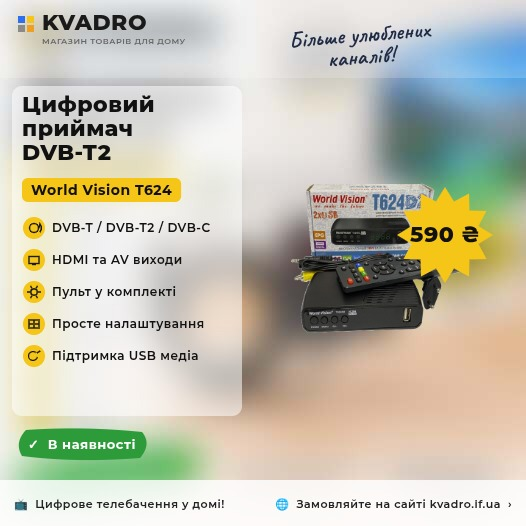
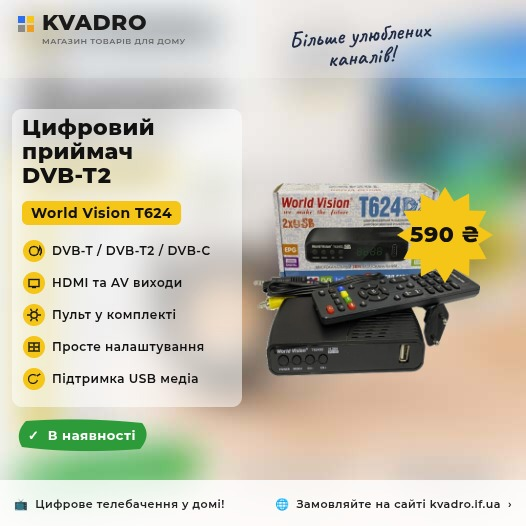
master - added generate promo command

Changed region(s): [[0.0304, 0.1521, 0.4259, 0.8821], [0.4867, 0.3346, 0.9125, 0.73], [0.3042, 0.7605, 0.4563, 0.7909]]

diff --git a/public/lib/admin-promo-image-editor.js b/public/lib/admin-promo-image-editor.js
@@ -275,8 +275,8 @@
     }
 
     function drawLogoMark(x, y) {
-        const s = 7;
-        const gap = 2;
+        const s = 9;
+        const gap = 3;
         const colors = ['#2f6fed', '#f5c518', '#8a8a8a', '#f0a020'];
         colors.forEach((color, i) => {
             const col = i % 2;
@@ -390,15 +390,15 @@
         roundRect(12, panelTop, 230, panelHeight, 10);
         ctx.fill();
 
-        // Brand (header — fixed)
-        drawLogoMark(18, 16);
+        // Brand (header — fixed, +30% type size)
+        drawLogoMark(16, 14);
         ctx.fillStyle = '#1a1a1a';
-        ctx.font = '800 22px Montserrat, Arial, sans-serif';
-        ctx.fillText(state.brandName || '', 42, 30);
+        ctx.font = '800 29px Montserrat, Arial, sans-serif';
+        ctx.fillText(state.brandName || '', 48, 34);
         ctx.fillStyle = '#666';
-        ctx.font = '600 8px Montserrat, Arial, sans-serif';
+        ctx.font = '600 10px Montserrat, Arial, sans-serif';
         ctx.letterSpacing = '0.5px';
-        ctx.fillText((state.brandTagline || '').toUpperCase(), 42, 44);
+        ctx.fillText((state.brandTagline || '').toUpperCase(), 48, 52);
 
         // Slogan (header — fixed)
         ctx.save();
@@ -477,9 +477,10 @@
         ctx.fillStyle = 'rgba(255,255,255,0.82)';
         ctx.fillRect(0, 480, size, 46);
         ctx.fillStyle = '#222';
-        ctx.font = '600 11px Montserrat, Arial, sans-serif';
         ctx.textAlign = 'left';
-        ctx.fillText('📺  ' + (state.footerLeft || ''), 14, 508);
+        ctx.font = '600 13px Montserrat, Arial, sans-serif';
+        ctx.fillText(state.footerLeft || '', 14, 508);
+        ctx.font = '600 11px Montserrat, Arial, sans-serif';
         ctx.textAlign = 'right';
         ctx.fillText('🌐  ' + (state.footerRight || '') + '  ›', size - 14, 508);
         ctx.textAlign = 'left';

diff --git a/src/Command/GeneratePromoFromProductsCommand.php b/src/Command/GeneratePromoFromProductsCommand.php
@@ -281,8 +281,8 @@ final class GeneratePromoFromProductsCommand extends Command
         imagefilledrectangle($im, 0, 0, $size, $headerBottom, imagecolorallocatealpha($im, 255, 255, 255, 90));
         $this->roundRect($im, 12, $panelTop, 230, $panelHeight, 10, imagecolorallocatealpha($im, 255, 255, 255, 50));
 
-        $this->text($im, $fontBold, 18, 42, 30, (string) $c['brandName'], $ink);
-        $this->text($im, $fontReg, 7, 42, 44, mb_strtoupper((string) $c['brandTagline']), $muted);
+        $this->text($im, $fontBold, 23, 48, 34, (string) $c['brandName'], $ink);
+        $this->text($im, $fontReg, 9, 48, 52, mb_strtoupper((string) $c['brandTagline']), $muted);
         $this->text($im, $fontBold, 14, 370, 38, (string) $c['slogan'], $sloganColor, 'center');
         $this->wrapText($im, $fontBold, 15, 22, $titleY, (string) $c['title'], $ink, 210, 20);
 
@@ -319,7 +319,7 @@ final class GeneratePromoFromProductsCommand extends Command
         }
 
         imagefilledrectangle($im, 0, $footerTop, $size, $size, imagecolorallocatealpha($im, 255, 255, 255, 25));
-        $this->text($im, $fontReg, 8, 14, 508, (string) $c['footerLeft'], $ink);
+        $this->text($im, $fontReg, 10, 14, 508, (string) $c['footerLeft'], $ink);
         $this->text($im, $fontReg, 8, $size - 14, 508, (string) $c['footerRight'].' ›', $ink, 'right');
 
         imagejpeg($im, $path, 92);
